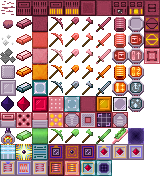
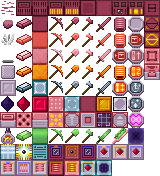
updated crystallized graphics

Changed region(s): [[0.0, 0.1989, 0.0938, 0.3693], [0.875, 0.3409, 1.0, 0.4545], [0.7812, 0.625, 0.9062, 0.7386]]

diff --git a/split_textures.py b/split_textures.py
@@ -10,7 +10,7 @@ def MT(basename):
 TEXTURE_FILES = [
     ['ore_raw', 'htr_furnace_front_unlit', 'raw_sides_unlit', 'htr_furnace_front_lit', 'raw_sides_lit', 'raw_mach_bot', 'raw_mach_top', 'asmelt_front_unlit', 'asmelt_front_lit', 'lavam_top'],
     ['lump_raw', 'ingot_raw', 'block_raw', 'tool_pick_raw', 'tool_shovel_raw', 'tool_axe_raw', 'tool_sword_raw', 'item_coil_raw', 'upg_base', 'lavam_front_unlit'],
-    ['item_cryst', 'ingot_tcop', 'block_tcop', 'tool_pick_tcop', 'tool_shovel_tcop', 'tool_axe_tcop', 'tool_sword_tcop', 'item_coil_tcop', 'upg_ext_input', 'lavam_front_lit'],
+    ['item_cryst_fg', 'ingot_tcop', 'block_tcop', 'tool_pick_tcop', 'tool_shovel_tcop', 'tool_axe_tcop', 'tool_sword_tcop', 'item_coil_tcop', 'upg_ext_input', 'lavam_front_lit'],
     ['item_cryst_bg', 'ingot_tste', 'block_tste', 'tool_pick_tste', 'tool_shovel_tste', 'tool_axe_tste', 'tool_sword_tste', 'upg_ext_output', 'upg_max_heat', 'meseg_top', 'repm_front'],
     ['item_ceramic', 'ingot_tgol', 'block_tgol', 'tool_pick_tgol', 'tool_shovel_tgol', 'tool_axe_tgol', 'tool_sword_tgol', 'item_coil_tgol', 'upg_heat_xfer'],
     ['block_ceramic', 'ingot_cgls', 'block_cgls', 'tool_pick_cgls', 'tool_shovel_cgls', 'tool_axe_cgls', 'tool_sword_cgls', 'upg_gen_up', 'upg_speed_up'],

diff --git a/changelog.md b/changelog.md
@@ -8,6 +8,7 @@ Newer versions listed first
 * Internal refactoring of useful 3D-relation node functions into its own "module" util3d.lua to help (*very* slightly) cut down on the size of machine.lua
 * The Solar Heater generates more heat (it is Tier 2 after all).
 * Made the default speed of the Vulcan Crystallizer a bit faster after feedback and reconsideration. [Thanks, piecubed!](https://github.com/Terumoc/terumet/issues/12#issuecomment-410413992)
+* Crystallized material has a new icon.
 * Added **Lava Melter**, a simple but useful Tier 1 machine for creating lava in more convenient places. Provided a stone or cobblestone and a large amount of heat, the Lava Melter will melt that stone to create a lava source block in front of it (as shown by the round dispenser-looking side with orange output arrows)
 * Added **Mese Garden**, a Tier 2 machine that grows new Mese Crystal Shards when seeded with Mese Crystals. The garden gains efficiency at growing new shards as long as it has heat to continue working and seed crystals, but rapidly declines when missing one of those needs. When a shard is created, there is a very small chance to lose a seed crystal.
 * Added **Equipment Reformer**, a Tier 2 machine that can repair tools. The machine consumes ingots of terumetal alloys to store "repair material". When a valid tool is inserted that has damage, it will use that material to repair it. By default, Minetest bronze, steel, mese and diamond tools as well as all tools added by Terumetal are eligible for repair. See interop/terumet_api for how to register other mod tools as repairable. Why spend metal to repair when you can just make new tools? The unique feature of the Reformer is that any material can be used to repair any other material tool, just a ratio of more "cheaper" material required.
